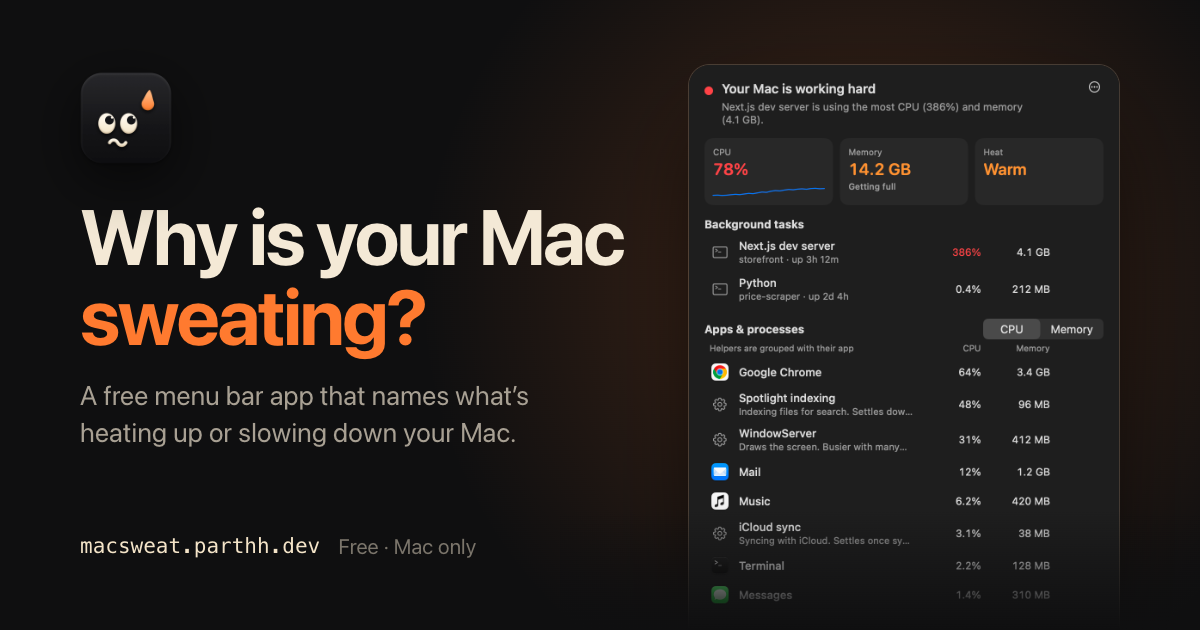
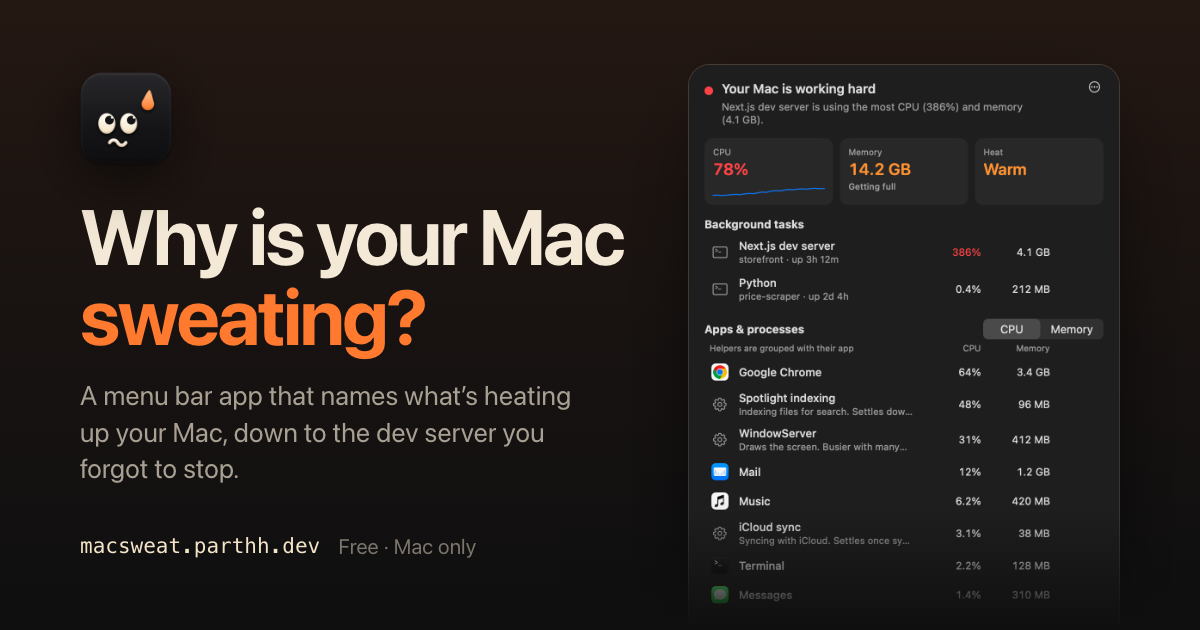
Match the link-preview card to the new hero
Swap the card's orange glow for the hero's warm top tint, use the
hero's subhead, re-render site/assets/og.png, and load it as ?v=2 so
link previews fetch the new image.

Changed region(s): [[0.0617, 0.6032, 0.4933, 0.7841]]

diff --git a/Tools/og-card.html b/Tools/og-card.html
@@ -25,10 +25,8 @@
     width: 1200px; height: 630px; overflow: hidden; position: relative;
     background: var(--bg); color: var(--text); font-family: var(--sans); -webkit-font-smoothing: antialiased;
   }
-  .glow {
-    position: absolute; inset: -160px -120px auto 420px; height: 900px;
-    background: radial-gradient(closest-side, rgba(255, 122, 47, 0.22), transparent);
-  }
+  /* The same warm tint as the site's hero while its demo Mac is hot (.heat in site/index.html). */
+  .heat { position: absolute; inset: 0; background: linear-gradient(180deg, rgba(255, 112, 40, 0.085), rgba(255, 112, 40, 0.03) 58%, transparent); }
   .copy { position: absolute; left: 80px; top: 72px; width: 560px; height: 486px; display: flex; flex-direction: column; }
   .icon { width: 112px; height: 112px; margin: -10px 0 0 -10px; filter: drop-shadow(0 16px 26px rgba(0, 0, 0, 0.55)); }
   h1 { font: 700 78px/1.02 var(--round); letter-spacing: -0.03em; margin: 22px 0 0; }
@@ -46,13 +44,13 @@
 </style>
 </head>
 <body>
-  <div class="glow"></div>
+  <div class="heat"></div>
   <img class="shot" src="../site/assets/screenshot-dark.png" alt="">
   <div class="fade"></div>
   <div class="copy">
     <img class="icon" src="../site/assets/icon.png" alt="">
     <h1>Why is your Mac <em>sweating?</em></h1>
-    <p>A free menu bar app that names what’s heating up or slowing down your Mac.</p>
+    <p>A menu bar app that names what’s heating up your Mac, down to the dev server you forgot to stop.</p>
     <div class="foot"><b>macsweat.parthh.dev</b><span>Free · Mac only</span></div>
   </div>
 </body>

diff --git a/site/index.html b/site/index.html
@@ -16,14 +16,14 @@
 <meta property="og:url" content="https://macsweat.parthh.dev/">
 <meta property="og:title" content="MacSweat — Why is your Mac sweating?">
 <meta property="og:description" content="A free, open-source Mac menu bar app that names what's heating up or slowing down your Mac, so you can close it yourself.">
-<meta property="og:image" content="https://macsweat.parthh.dev/assets/og.png?v=1">
+<meta property="og:image" content="https://macsweat.parthh.dev/assets/og.png?v=2">
 <meta property="og:image:width" content="1200">
 <meta property="og:image:height" content="630">
 <meta property="og:image:alt" content="MacSweat: Why is your Mac sweating? Beside the headline, the MacSweat panel names a Next.js dev server as the app using the most CPU.">
 <meta name="twitter:card" content="summary_large_image">
 <meta name="twitter:title" content="MacSweat — Why is your Mac sweating?">
 <meta name="twitter:description" content="A free, open-source Mac menu bar app that names what's heating up or slowing down your Mac, so you can close it yourself.">
-<meta name="twitter:image" content="https://macsweat.parthh.dev/assets/og.png?v=1">
+<meta name="twitter:image" content="https://macsweat.parthh.dev/assets/og.png?v=2">
 <meta name="twitter:image:alt" content="MacSweat: Why is your Mac sweating? Beside the headline, the MacSweat panel names a Next.js dev server as the app using the most CPU.">
 
 <style>

diff --git a/docs/DEVELOPMENT.md b/docs/DEVELOPMENT.md
@@ -56,7 +56,7 @@ Things that have gone wrong before:
 - **Test the installer the way a Terminal runs it:** `cat site/install | env LC_ALL=en_US.UTF-8 sh`, with the output uncut.
 - **Every push to `main` publishes the site.** The Vercel project is connected to this repository with its Root Directory set to `site`. If that setting is ever lost, Vercel publishes the whole repository and the homepage returns 404 while the page sits at `/site/`. After any push to `main`, check the live site and not only GitHub.
 - **Never push a new installer checksum to `main` before its release exists.** The site would go live pointing at a zip that isn't there. `--publish` handles the order: tag, release, then `main`.
-- **Bump the images' version tags.** The page loads `assets/screenshot-dark.png?v=2`, and link previews use `assets/og.png?v=1`. Raise the number when an image changes, or browsers and link previews keep showing the old one. When the dark screenshot changes, render `Tools/og-card.html` again too.
+- **Bump the images' version tags.** The page loads `assets/screenshot-dark.png?v=2`, and link previews use `assets/og.png?v=2`. Raise the number when an image changes, or browsers and link previews keep showing the old one. When the dark screenshot changes, render `Tools/og-card.html` again too.
 
 ## How the readings are made
 
